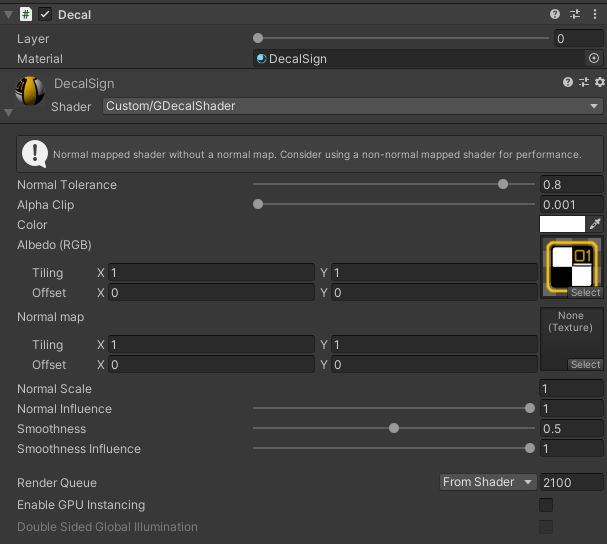
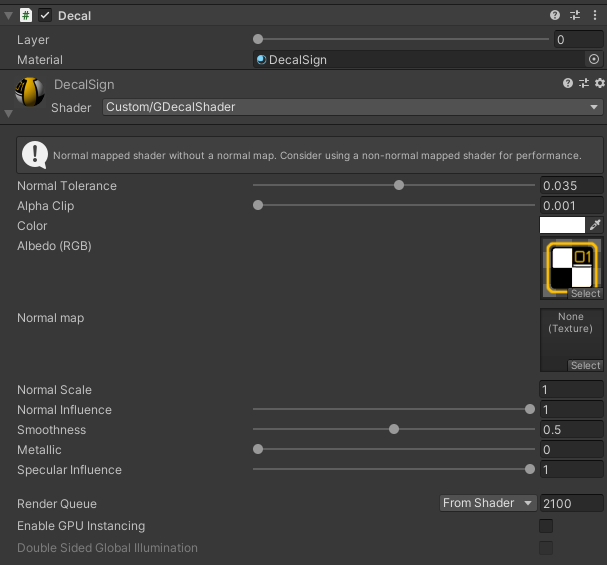
Fixed decal queue

diff --git a/Assets/DeferredDecals/Scripts/DeferredDecalSystem.cs b/Assets/DeferredDecals/Scripts/DeferredDecalSystem.cs
@@ -17,7 +17,7 @@ namespace HG.DeferredDecals
 
         public void AddDecal(Decal d)
         {
-            RemoveDecal(d);
+            RemoveDecal(d, false);
 
             if(layerToDecals.TryGetValue(d.Layer, out List<Decal> decals))
             {
@@ -35,13 +35,14 @@ namespace HG.DeferredDecals
             }
         }
 
-        public void RemoveDecal(Decal d)
+        public void RemoveDecal(Decal d, bool removeLayer = true)
         {
-            if (layerToDecals.TryGetValue(d.Layer, out List<Decal> decals))
+            foreach(var decalsPair in layerToDecals)
             {
+                var decals = decalsPair.Value;
                 decals.Remove(d);
 
-                if(decals.Count == 0)
+                if(removeLayer && decals.Count == 0)
                 {
                     availableLayers.Remove(d.Layer);
                 }

diff --git a/Assets/DeferredDecals/Scripts/DeferredDecalRenderer.cs b/Assets/DeferredDecals/Scripts/DeferredDecalRenderer.cs
@@ -31,7 +31,7 @@ namespace HG.DeferredDecals
             system = new DeferredDecalSystem();
         }
 
-        public void LateUpdate()
+        public void Update()
         {
             CommandBuffer buffer;
             var cam = Camera.current;
@@ -125,7 +125,7 @@ namespace HG.DeferredDecals
 
                 // set this command buffer to be executed just before deferred lighting pass
                 // in the camera
-                cam.AddCommandBuffer(CameraEvent.BeforeLighting, buffer);
+                cam.AddCommandBuffer(CameraEvent.BeforeReflections, buffer);
             }
 
             buffer.Clear();

diff --git a/Assets/DeferredDecals/Scripts/Decal.cs b/Assets/DeferredDecals/Scripts/Decal.cs
@@ -94,7 +94,7 @@ namespace HG.DeferredDecals
 
         private void OnValidate()
         {
-            OnDisable();
+            DeferredDecalSystem.Instance?.RemoveDecal(this, false);
             OnEnable();
         }
 

diff --git a/README.md b/README.md
@@ -13,12 +13,12 @@
 ## Pros:
  * Improved inspector with embedded material editing:
  ![](./ForGit/DecalInspector.png)
- * Layers. Though making layers is **pretty expensive** since the more layers you have the more passes is needed.
+ * Layers. Though making layers is **pretty expensive** since the more layers you have on screen the more passes is needed.
  ![](./ForGit/Layers.png)
  * Cutout. Each decal can use Alpha Clip to avoid using layers
  * Blending with background normals
  ![](./ForGit/NormalsBlending.png)
- * Decals can influence smoothness
+ * Decals can influence smoothness and specular color, using Metallic workflow
  * They are still rendered if you're inside the render box
 
  ## Cons:
